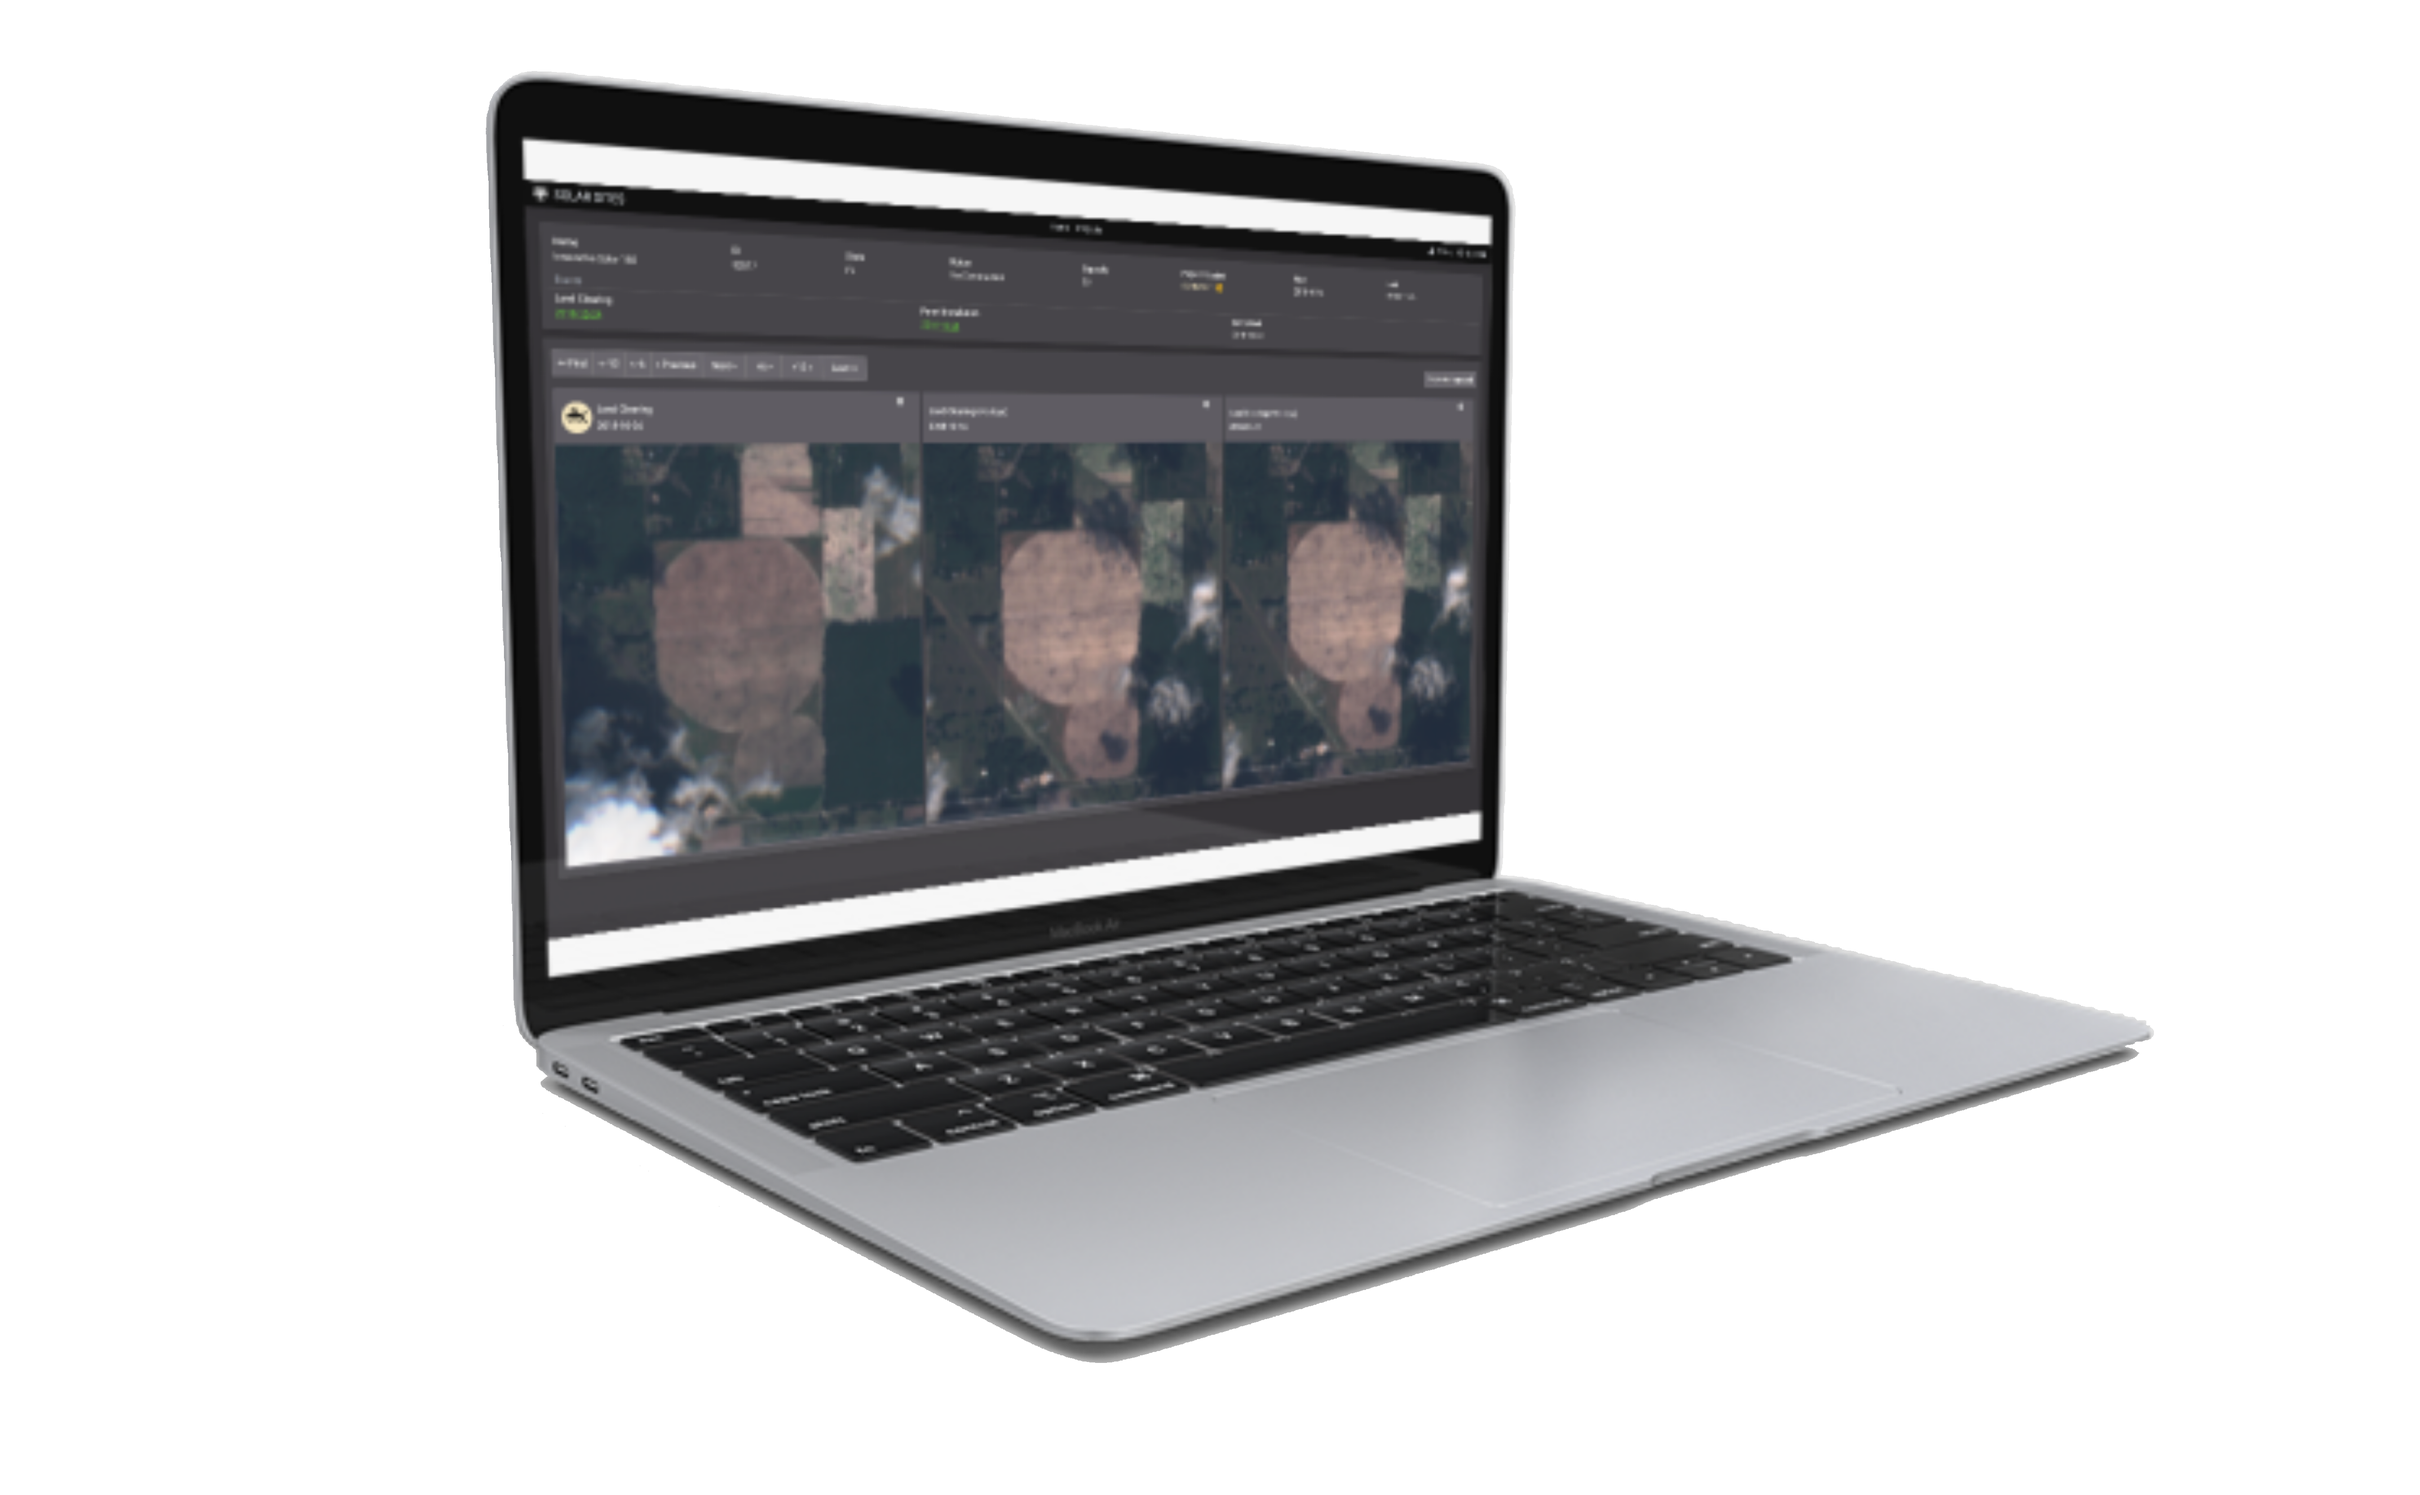
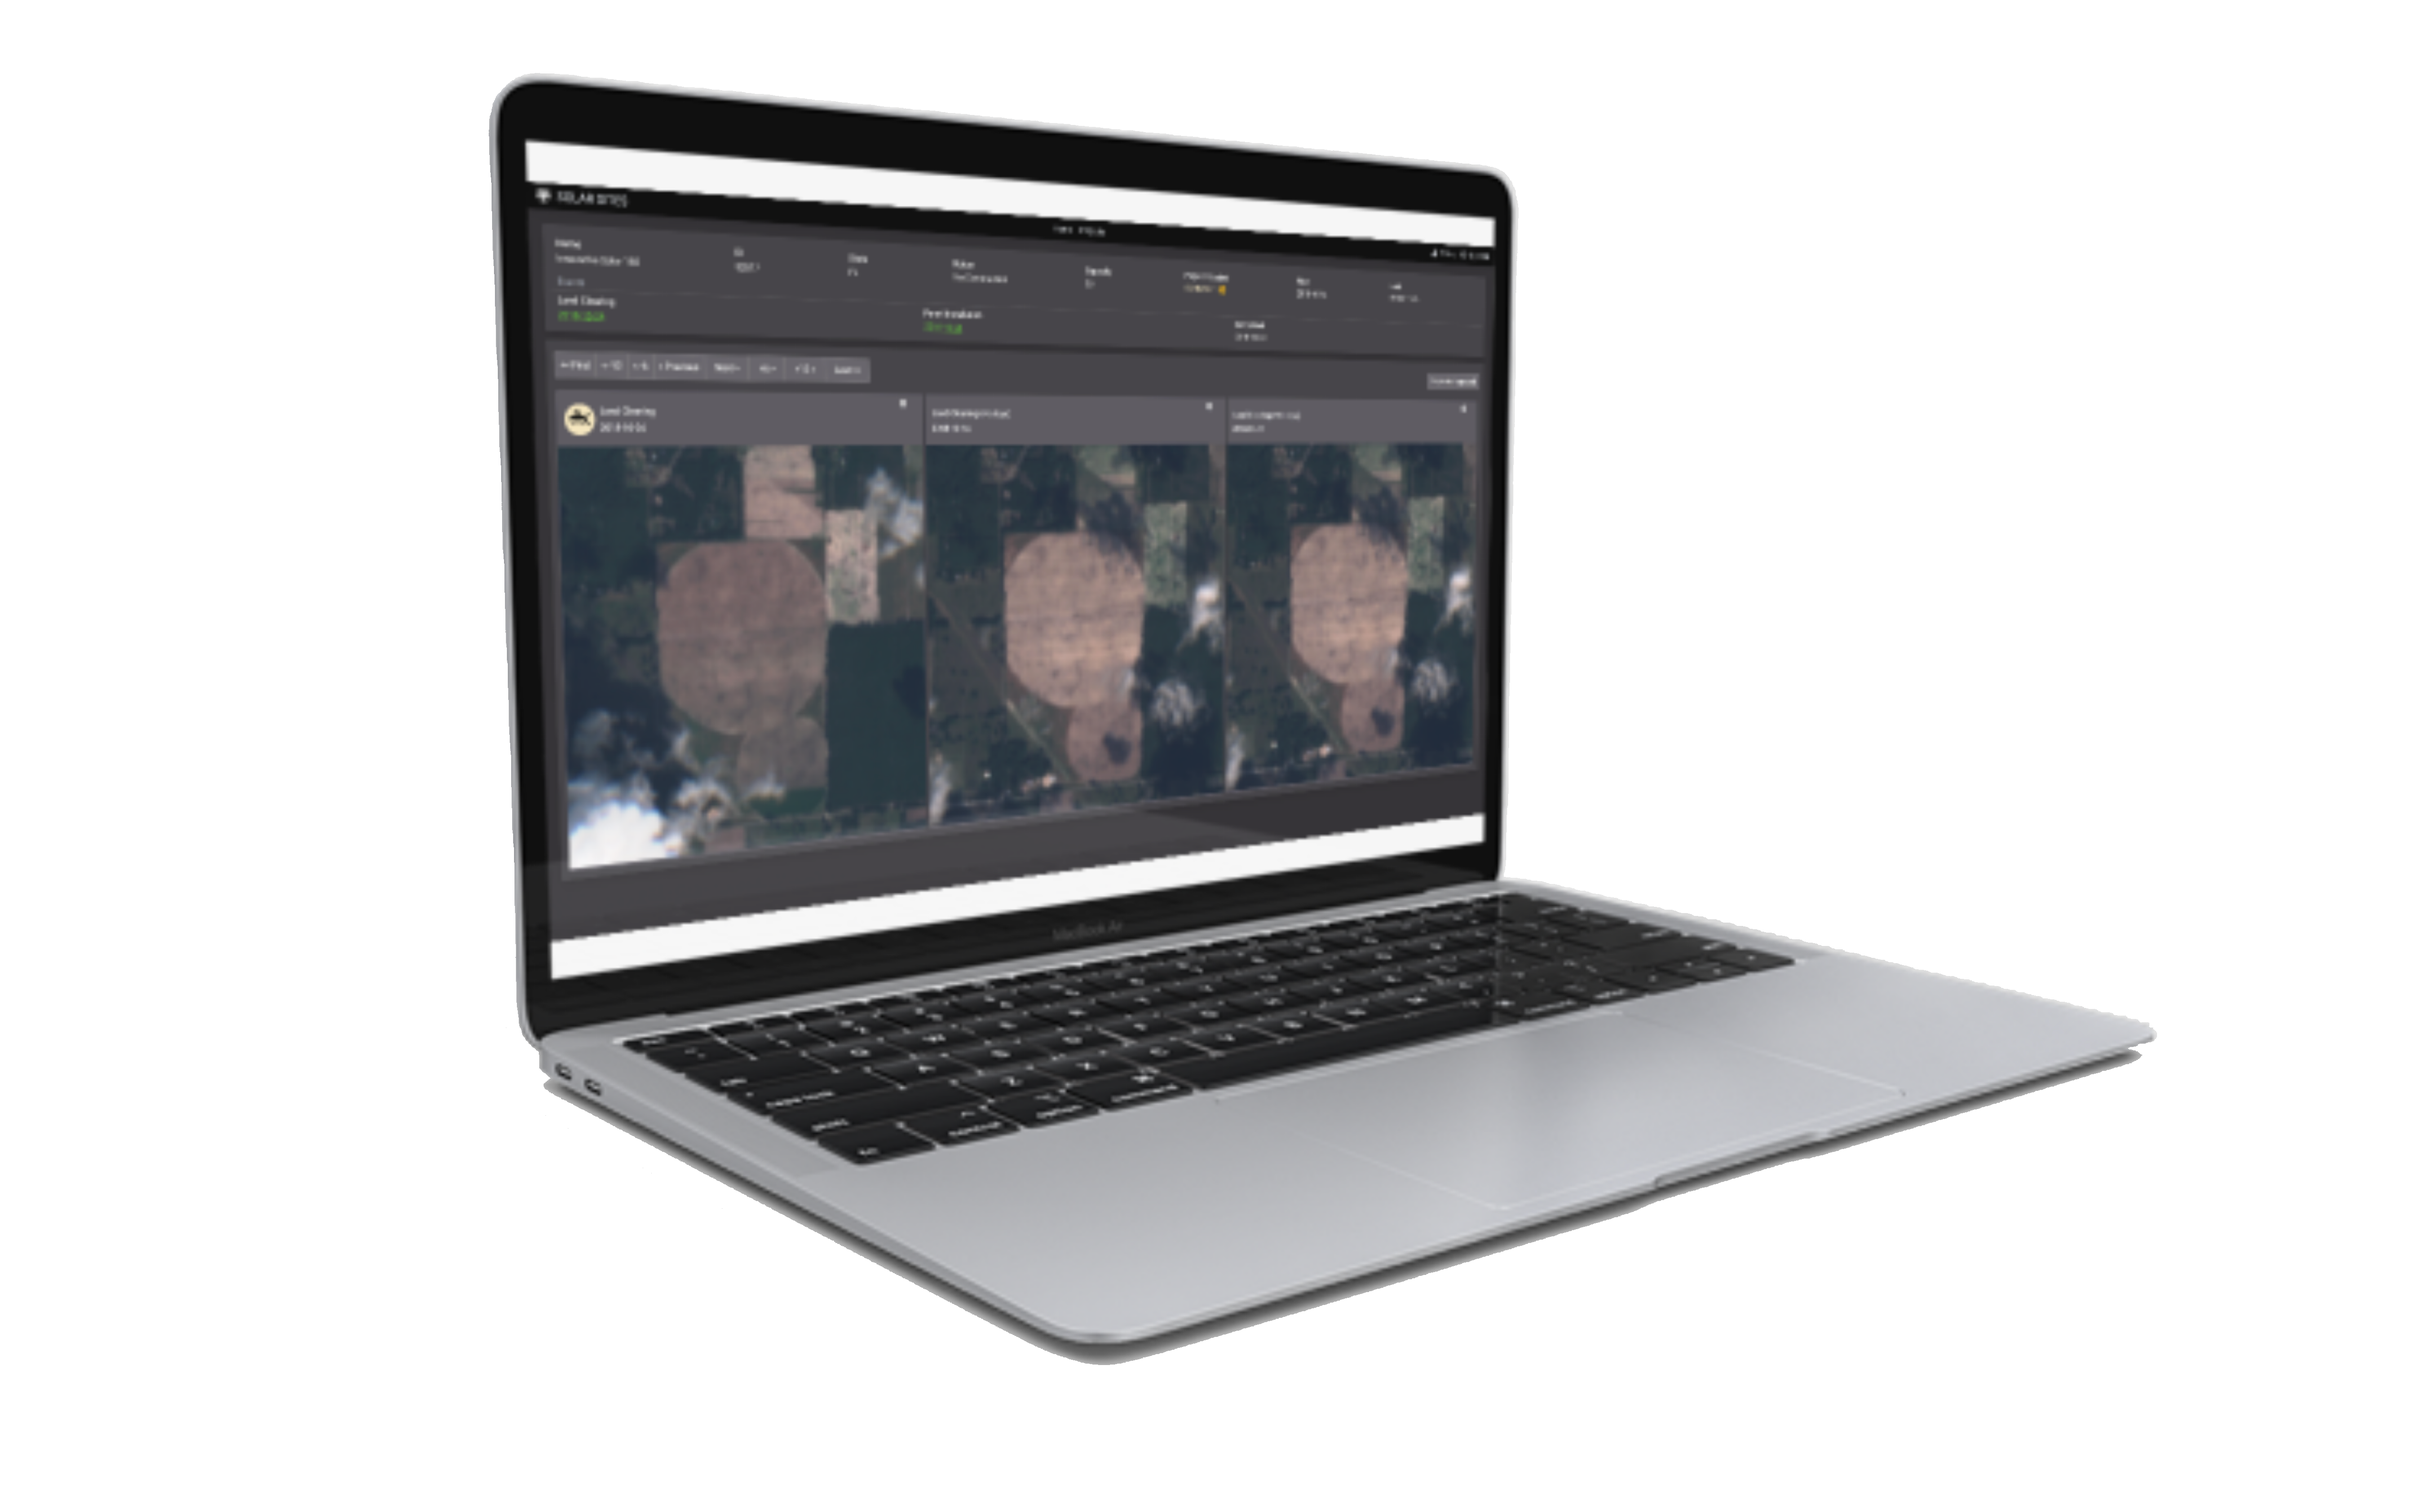
More changes

diff --git a/src/components/CaseSubPointComponent.js b/src/components/CaseSubPointComponent.js
@@ -43,7 +43,7 @@ function CaseSubPoint({ caseSub, isHalf }) {
                                                 </div>
                                                 <div className="col-10 offset-1 subpoint__img">
                                                     {subpoint.img ? <div className="align-center" >
-                                                        <img id="1" className='img-fluid' src={process.env.PUBLIC_URL + subpoint.img} alt="" />
+                                                        <img className='img-fluid' src={process.env.PUBLIC_URL + subpoint.img} alt="" />
                                                     </div>:
                                                         ""
                                                     }

diff --git a/src/shared.js b/src/shared.js
@@ -355,7 +355,7 @@ export const caseContent = [
                 texts: [
                     "Each project features a common header area where specific details of the project are captured and displayed",
                 ],
-                img: "/images/case-solarSites-mockup3.png",
+                img: "/images/solarSitesMac&IPad.png",
                 bg: "linear-gradient(89.03deg, rgba(255, 250, 201, 0.56) -7.98%, rgba(255, 167, 167, 0.35) 133.27%)"
             },
             {

diff --git a/src/css/casePage.css b/src/css/casePage.css
@@ -75,8 +75,8 @@
 
 .subpoint__img .img-fluid {
   text-align: center;
-  max-height: 80%;
-  max-width: 80%;
+  max-height: 60%;
+  max-width: 60%;
 }
 .subpoint-container {
   margin-top: 16px;
